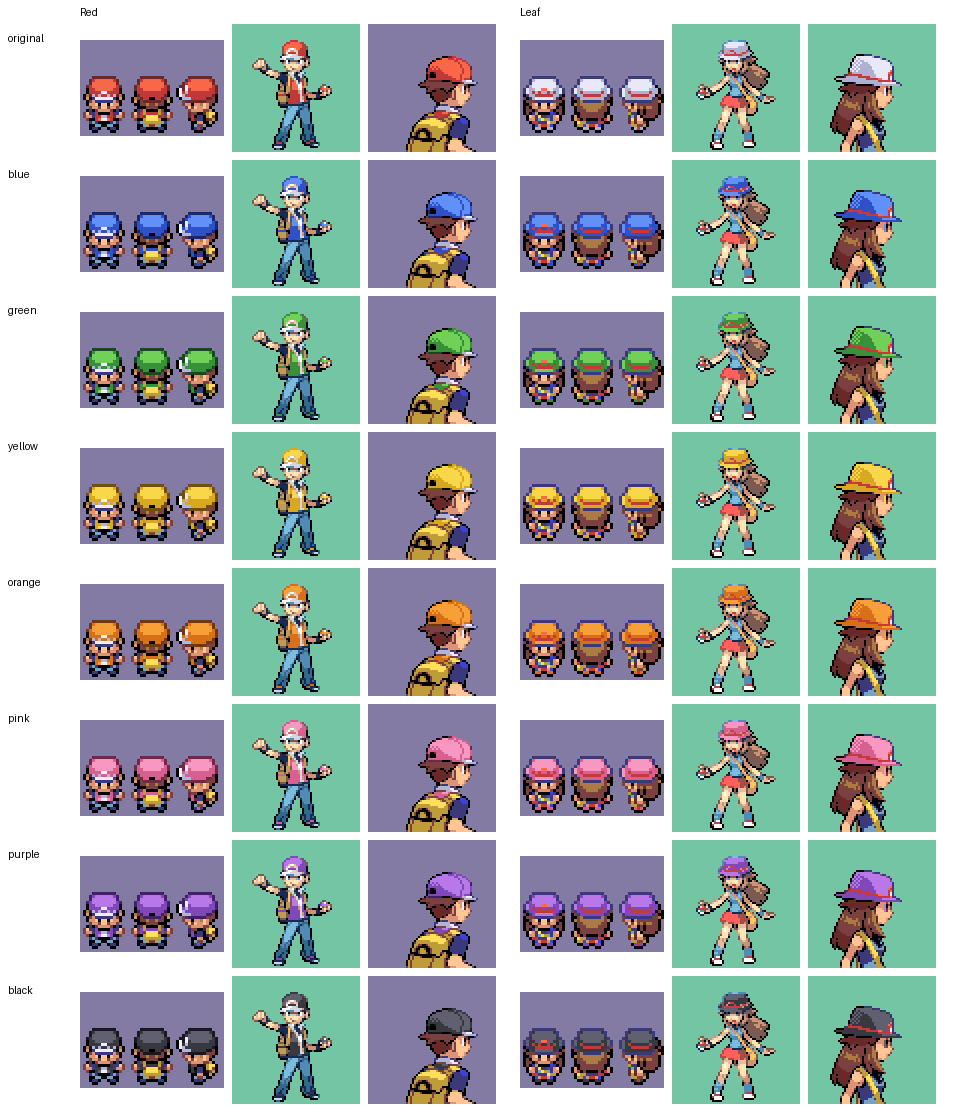
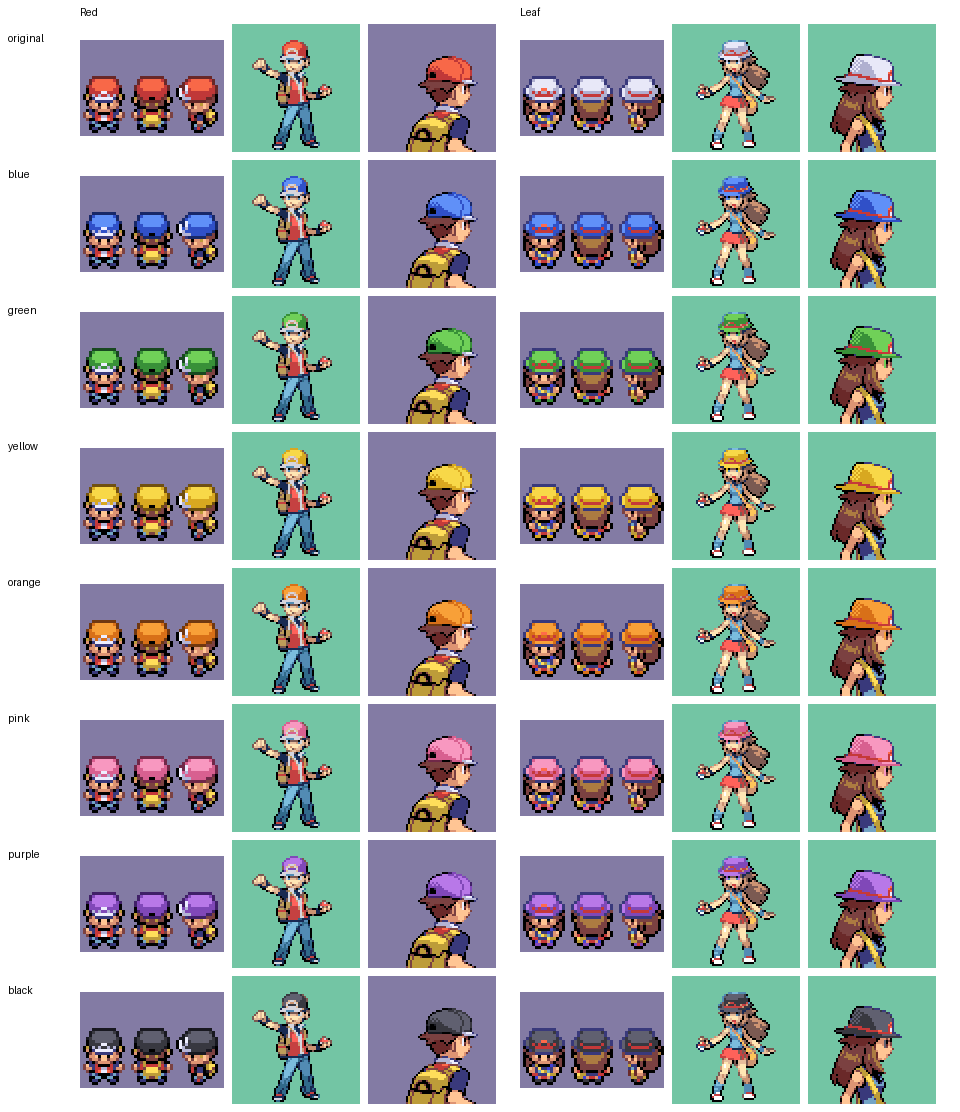
Change only the hat in the clothing colour drafts
Both characters' main colour now recolours just the hat. Red's jacket moves
off the hat's palette slots into slots freed by merging his least-used
near-duplicate colours, so it stays red and distinct from his backpack.

Claude-Session: https://claude.ai/code/session_015gnWdABPujcF8ND2SyTNM6

diff --git a/dev_scripts/player_clothing/make_clothing_colours.py b/dev_scripts/player_clothing/make_clothing_colours.py
@@ -1,6 +1,6 @@
-"""Draft main clothing colours for the FRLG player sprites and render a preview sheet.
+"""Draft hat colours for the FRLG player sprites and render a preview sheet.
 
-Red's main colour is his jacket and hat; Leaf's is her hat.
+The wardrobe's main colour changes only the hat, for both Red and Leaf.
 
 Usage: python3 dev_scripts/player_clothing/make_clothing_colours.py [repo root]
 Writes .pal files, re-indexed sprites and a preview next to this script. Needs Pillow.
@@ -8,6 +8,7 @@ Writes .pal files, re-indexed sprites and a preview next to this script. Needs P
 import glob
 import os
 import sys
+from collections import Counter
 
 from PIL import Image, ImageDraw
 
@@ -33,31 +34,37 @@ COLOURS = {
     "black": [(99, 99, 115), (57, 57, 66), (24, 24, 32)],
 }
 
-# Per sprite: the main colour's palette slots (light, mid, dark or None), and how
-# to pull non-clothing pixels out of those slots first:
-#   None    - nothing to separate
+# Per sprite: the hat's palette slots (light, mid, dark or None), and the steps
+# that pull non-hat pixels out of those slots first:
 #   "touch" - dark-slot pixels that touch no light or mid pixel are hair (Red's battle back)
-#   "lower" - groups centred in the lower half of the frame are socks, shoes or a Poke Ball
+#   "below" - pixels below the hat line are clothing or a Poke Ball (Red's jacket, Leaf's
+#             socks); the hat line is set per sprite kind in HAT_LINE
 #   "small" - groups of fewer than 4 pixels are an eye or a stray highlight
-# Separated pixels keep their colour in one spare slot (merging the two closest
-# colours if there's none). Leaf's walking sprite is left alone: at that size her
-# socks matching her hat reads as an outfit, like Red's shoes matching his jacket.
+# Each separated slot keeps its colour in a spare slot of its own, so shading
+# survives. Leaf's walking sprite is left alone: at that size her socks matching
+# her hat reads as an outfit.
 SPRITES = {
     "red": {
-        "overworld": ("graphics/object_events/pics/people/red/*.png", (11, 12, 8), None),
-        "front": ("graphics/trainers/front_pics/red.png", (12, 13, None), None),
-        "back": ("graphics/trainers/back_pics/red.png", (11, 12, 8), "touch"),
+        "overworld": ("graphics/object_events/pics/people/red/*.png", (11, 12, 8), ["below"]),
+        "front": ("graphics/trainers/front_pics/red.png", (12, 13, None), ["below"]),
+        "back": ("graphics/trainers/back_pics/red.png", (11, 12, 8), ["touch", "below"]),
     },
     "leaf": {
-        "overworld": ("graphics/object_events/pics/people/leaf/*.png", (9, 10, None), None),
+        "overworld": ("graphics/object_events/pics/people/leaf/*.png", (9, 10, None), []),
         # The skin-tone script's version, where hair no longer shares skin slot 3.
-        "front": ("dev_scripts/player_skin_tones/leaf_front_hair_split.png", (14, 9, None), "lower"),
-        "back": ("graphics/trainers/back_pics/leaf.png", (9, 10, None), "small"),
+        "front": ("dev_scripts/player_skin_tones/leaf_front_hair_split.png", (14, 9, None), ["below"]),
+        "back": ("graphics/trainers/back_pics/leaf.png", (9, 10, None), ["small"]),
     },
 }
 
+# Sprites whose separated pixels all share one spare slot (the lightest colour),
+# because their palette can only spare one: Leaf's socks and Poke Ball are tiny.
+ONE_SLOT = {("leaf", "front")}
+
 # Frame height for each sprite kind, so pixels are judged frame by frame.
 FRAME_H = {"overworld": 32, "front": 64, "back": 64}
+# Rows below this, within a frame, are under the hat.
+HAT_LINE = {"overworld": 20, "front": 24, "back": 34}
 
 
 def components(px, w, y0, y1, wanted):
@@ -81,14 +88,15 @@ def components(px, w, y0, y1, wanted):
     return groups
 
 
-def pixels_to_separate(im, kind, slots, mode):
+def pixels_to_separate(im, kind, slots, step):
+    """Pixels in the hat's slots that aren't hat, for one separation step."""
     px = im.load()
     w, h = im.size
     fh = FRAME_H[kind]
     main = {s for s in slots if s is not None}
     found = []
     for y0 in range(0, h, fh):
-        if mode == "touch":
+        if step == "touch":
             light_mid = {slots[0], slots[1]}
             for y in range(y0, y0 + fh):
                 for x in range(w):
@@ -97,57 +105,80 @@ def pixels_to_separate(im, kind, slots, mode):
                             for ny in range(max(y0, y - 1), min(y0 + fh, y + 2))
                             for nx in range(max(0, x - 1), min(w, x + 2))):
                         found.append((x, y))
-        else:
+        elif step == "below":
+            # Only the light and mid shades: the thin dark outline stays shared,
+            # because the palettes can't spare a third slot.
+            light_mid = {slots[0], slots[1]}
+            for y in range(y0 + HAT_LINE[kind], y0 + fh):
+                for x in range(w):
+                    if px[x, y] in light_mid:
+                        found.append((x, y))
+        elif step == "small":
             for group in components(px, w, y0, y0 + fh, main):
-                cy = sum(y for _, y in group) / len(group) - y0
-                if (mode == "lower" and cy >= fh * 0.5) or (mode == "small" and len(group) < 4):
+                if len(group) < 4:
                     found += group
     return found
 
 
-def spare_slot(im, keep):
-    """An unused slot, or one freed by merging the two closest colours not in `keep`."""
-    used = set(im.getdata())
+def spare_slot(images, keep, no_merge_into):
+    """An unused slot, or one freed by merging away the cheapest colour not in `keep`.
+
+    The cost of merging a colour is its pixel count times its squared distance
+    to the colour it merges into, so rare colours with a near twin go first. Nothing merges into a
+    slot in `no_merge_into` (skin or hat), since those change with the wardrobe.
+    """
+    used = Counter()
+    for im in images:
+        used.update(im.getdata())
     for s in range(1, 16):
-        if s not in used:
+        if not used[s] and s not in keep:
             return s, None
-    pal = im.getpalette()
+    pal = images[0].getpalette()
+    col = lambda s: pal[s * 3:s * 3 + 3]
     cands = [s for s in range(1, 16) if s not in keep]
-    best = min(((sum((p - q) ** 2 for p, q in zip(pal[a * 3:a * 3 + 3], pal[b * 3:b * 3 + 3])), a, b)
-                for i, a in enumerate(cands) for b in cands[i + 1:]))
-    _, into, drop = best
-    px = im.load()
-    for y in range(im.size[1]):
-        for x in range(im.size[0]):
-            if px[x, y] == drop:
-                px[x, y] = into
-    note = "merged slot %d %s into slot %d %s" % (
-        drop, tuple(pal[drop * 3:drop * 3 + 3]), into, tuple(pal[into * 3:into * 3 + 3]))
+    _, drop, into = min(
+        (used[a] * sum((p - q) ** 2 for p, q in zip(col(a), col(b))), a, b)
+        for a in cands for b in range(1, 16) if b != a and used[b] and b not in no_merge_into)
+    for im in images:
+        px = im.load()
+        for y in range(im.size[1]):
+            for x in range(im.size[0]):
+                if px[x, y] == drop:
+                    px[x, y] = into
+    note = "merged slot %d %s (%d px) into slot %d %s" % (drop, tuple(col(drop)), used[drop], into, tuple(col(into)))
     return drop, note
 
 
-def separate(im, kind, slots, mode, notes, label):
-    if mode is None:
-        return im
-    im = im.copy()
-    found = pixels_to_separate(im, kind, slots, mode)
-    if not found:
-        return im
-    px = im.load()
-    # Use the lightest separated colour for the spare slot.
-    src = min({px[x, y] for x, y in found}, key=lambda s: slots.index(s))
-    # Skin slots and the main colour's slots are never merged away.
-    keep = {0, 1, 2, 3, 4, 11} | {s for s in slots if s is not None}
-    dst, note = spare_slot(im, keep)
-    if note:
-        notes.append("%s: %s" % (label, note))
-    pal = im.getpalette()
-    pal[dst * 3:dst * 3 + 3] = pal[src * 3:src * 3 + 3]
-    im.putpalette(pal)
-    for x, y in found:
-        px[x, y] = dst
-    notes.append("%s: moved %d non-clothing pixels into slot %d" % (label, len(found), dst))
-    return im
+def separate(images, kind, slots, steps, notes, label, one_slot=False):
+    """Run each step; every separated slot keeps its colour in a spare slot of its own."""
+    images = [im.copy() for im in images]
+    # Never merge away transparency, skin, the hat, or a slot this function filled.
+    # Slot 11 on front pictures is Leaf's hair, split out by the skin-tone script.
+    skin = {1, 2, 3, 4} if kind == "front" else {2, 3, 4}
+    hat = {s for s in slots if s is not None}
+    keep = {0} | skin | hat | ({11} if kind == "front" else set())
+    for step in steps:
+        found = {}
+        for n, im in enumerate(images):
+            px = im.load()
+            for x, y in pixels_to_separate(im, kind, slots, step):
+                found.setdefault(px[x, y], []).append((n, x, y))
+        if one_slot and found:
+            lightest = min(found, key=lambda s: slots.index(s))
+            found = {lightest: [p for pixels in found.values() for p in pixels]}
+        for src, pixels in sorted(found.items()):
+            dst, note = spare_slot(images, keep, keep)
+            if note:
+                notes.append("%s: %s" % (label, note))
+            keep.add(dst)
+            pal = images[0].getpalette()
+            pal[dst * 3:dst * 3 + 3] = pal[src * 3:src * 3 + 3]
+            for im in images:
+                im.putpalette(pal)
+            for n, x, y in pixels:
+                images[n].load()[x, y] = dst
+            notes.append("%s: %s step moved %d pixels from slot %d to slot %d" % (label, step, len(pixels), src, dst))
+    return images
 
 
 def recolour(im, slots, ramp):
@@ -173,13 +204,15 @@ def main():
     prepared = {}
     os.makedirs(os.path.join(OUT, "sprites"), exist_ok=True)
     for who, kinds in SPRITES.items():
-        for kind, (pattern, slots, mode) in kinds.items():
-            path = sorted(glob.glob(os.path.join(REPO, pattern)))
-            path = next((p for p in path if p.endswith("_normal.png")), path[0])
-            im = separate(Image.open(path), kind, slots, mode, notes, "%s %s" % (who, kind))
-            if mode is not None:
-                im.save(os.path.join(OUT, "sprites", "%s_%s_separated.png" % (who, kind)))
-            prepared[(who, kind)] = (im, slots)
+        for kind, (pattern, slots, steps) in kinds.items():
+            paths = sorted(glob.glob(os.path.join(REPO, pattern)))
+            images = separate([Image.open(p) for p in paths], kind, slots, steps, notes, "%s %s" % (who, kind),
+                              (who, kind) in ONE_SLOT)
+            if steps:
+                for p, im in zip(paths, images):
+                    im.save(os.path.join(OUT, "sprites", "%s_%s_%s" % (who, kind, os.path.basename(p))))
+            preview = next((im for p, im in zip(paths, images) if p.endswith("_normal.png")), images[0])
+            prepared[(who, kind)] = (preview, slots)
 
     os.makedirs(os.path.join(OUT, "pal"), exist_ok=True)
     order = ["original"] + [c for c in COLOURS if c not in ("red", "white")]

diff --git a/dev_scripts/player_clothing/README.md b/dev_scripts/player_clothing/README.md
@@ -1,17 +1,26 @@
-# Player clothing colours (draft)
+# Player hat colours (draft)
 
-Draft palettes that let the player pick a main clothing colour: Red's jacket and hat, or Leaf's hat. Colours: the original (red for Red, white for Leaf), blue, green, yellow, orange, pink, purple and black. Nothing here is wired into the build yet.
+Draft palettes that let the player pick a hat colour, for both Red and Leaf. Colours: the original (red for Red, white for Leaf), blue, green, yellow, orange, pink, purple and black. Only the hat changes; Red's jacket stays red so it stays distinct from his backpack. Nothing here is wired into the build yet.
 
 - `make_clothing_colours.py` regenerates everything in this folder from the sprites in `graphics/` (and Leaf's hair-split front picture from `../player_skin_tones/`). Run it from anywhere; it needs Pillow.
 - `pal/` holds one JASC palette per character, sprite and colour: `<red|leaf>_<overworld|front|back>_<colour>.pal`.
-- `sprites/` holds the pictures whose pixels had to move so that only clothing uses the main colour's slots. The palettes for those sprites assume these versions:
-  - `red_back_separated.png`: the hair under Red's hat shared the hat's dark red; 283 hair pixels moved to the unused slot 1.
-  - `leaf_front_separated.png`: Leaf's socks, shoes and Poke Ball shared the hat's whites; 25 pixels moved to slot 7, freed by merging two near-identical blues on her top (slot 7 into slot 6).
-  - `leaf_back_separated.png`: a few stray white pixels (her eye) moved to the unused slot 5.
+- `sprites/` holds the pictures whose pixels had to move so that only the hat uses the hat's palette slots. The palettes for those sprites assume these versions.
 - `clothing_preview.png` shows every colour on the first walking frames, the front picture and the battle back sprite.
+
+## What moved
+
+Red's hat and jacket share their red slots, and his palettes have no free slots, so the jacket's two main shades moved to slots freed by merging his least-used near-duplicate colours. Merges never go into skin, hair or hat slots, since those change with the wardrobe.
+
+| Sprite | Moved | Merged to make room |
+| --- | --- | --- |
+| Red walking (all 7 sheets) | Jacket light and mid shades | Slot 1 into slot 14 (two browns, 128 px); slot 5 into slot 6 (two jeans blues, 45 px) |
+| Red front | Jacket, wristband and shoe reds | Slot 10 into slot 9 (5 px); slot 14 into slot 9 (pure white into near-white, 22 px) |
+| Red battle back | Hair under the hat (283 px, into unused slot 1); jacket collar reds | Slot 7 into slot 10 (3 px); slot 5 into slot 6 (two blues, 49 px) |
+| Leaf front | Socks, shoes and Poke Ball whites, together in one slot | Slot 7 into slot 6 (two blues on her top, 37 px) |
+| Leaf battle back | A few stray white pixels near her eye (into unused slot 5) | None |
 
 ## Notes
 
-- On Leaf's walking sprite her socks change colour with her hat, the same way Red's shoes match his jacket; at that size it reads as an outfit.
-- Red's front picture changes his wristband and shoes with his jacket.
-- In the game, skin tone and clothing colour would be applied together at load time by writing both ramps into the base palette, rather than storing a palette for every combination.
+- Red's hat and jacket still share their thin dark outline (one slot), so the jacket's outline takes on a dark shade of the hat colour. There's no spare slot to separate it.
+- On Leaf's walking sprite her socks change colour with her hat; at that size it reads as an outfit.
+- In the game, skin tone and hat colour would be applied together at load time by writing both ramps into the base palette, rather than storing a palette for every combination.
